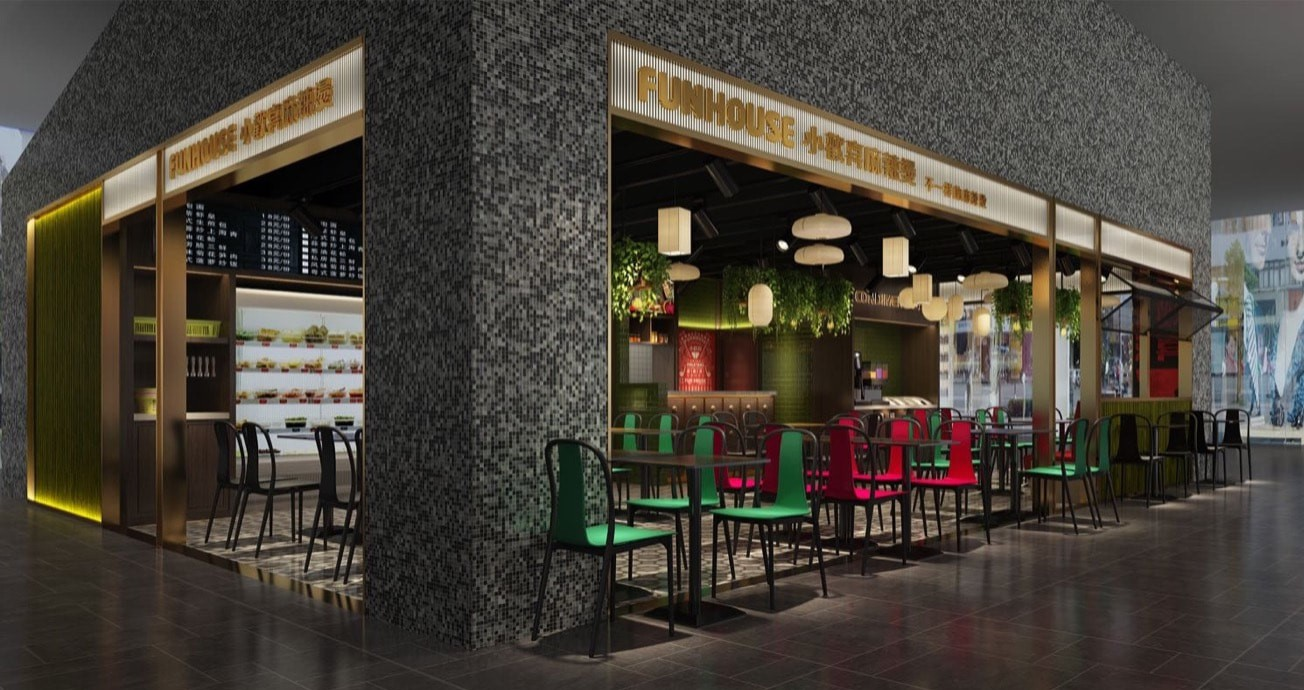
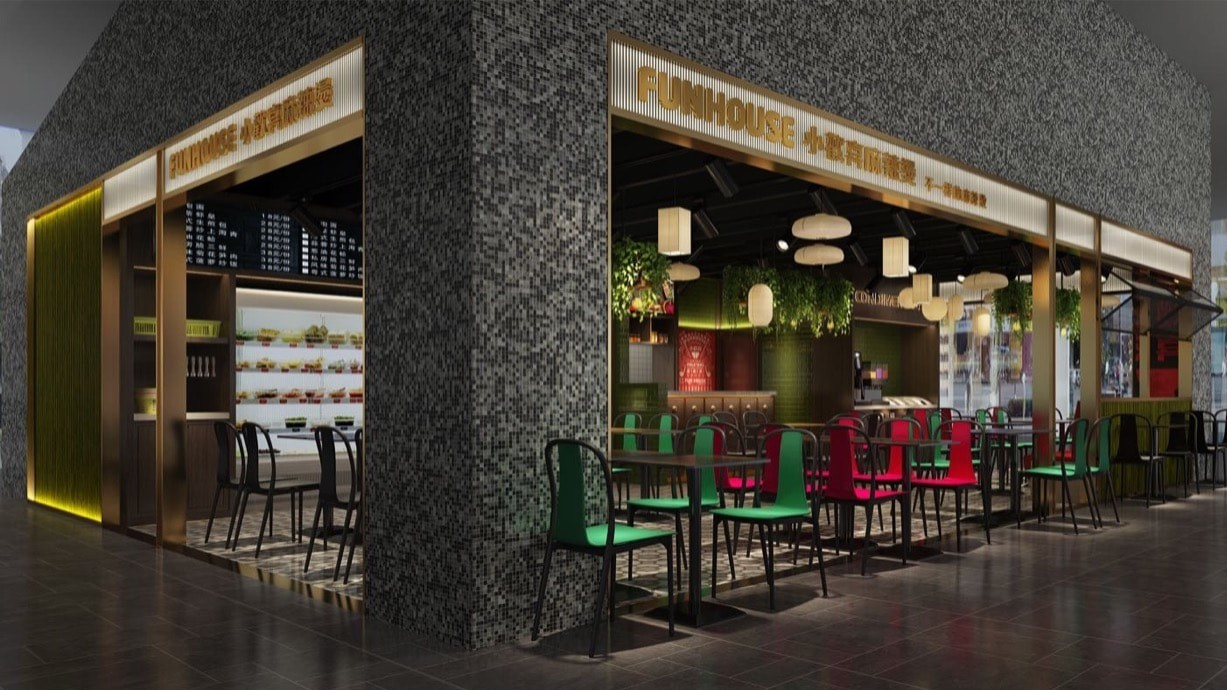
align store name to center. ensure image is the same ratio (16:9) as one another to avoid text beginning in the wrong spot in the card

diff --git a/src/styles/style.css b/src/styles/style.css
@@ -205,11 +205,13 @@ h2 {
     padding: 25px 35px;
     display: flex;
     flex-direction: column;
-    align-items: center;
     gap: 15px;
+}
+
+#locations h3 {
+    text-align: center;
 }
 
 #locations .card img {
     width: 100%;
-    flex: 1;
 }
